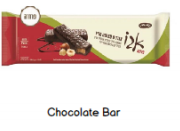
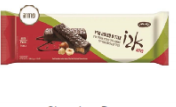
removed name from image #5

diff --git a/StyleSheet.css b/StyleSheet.css
@@ -44,6 +44,8 @@
     padding-top: 10px;
 }
 
+.imgContainer{}
+
 .fa-star {
     border: none;
     background-color: inherit;
